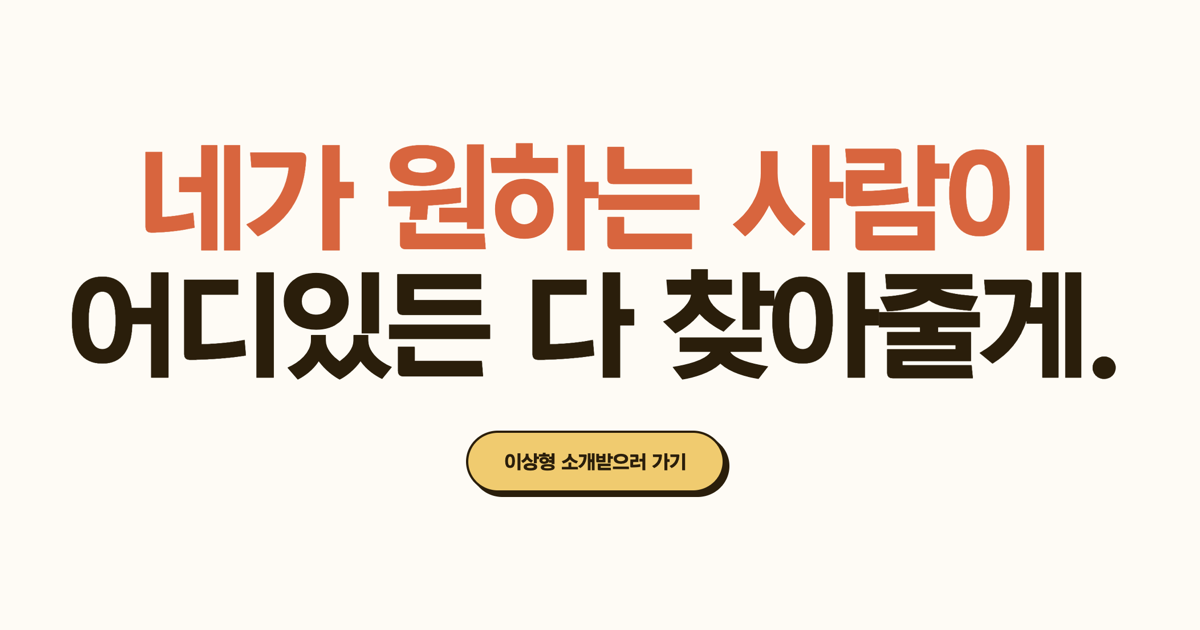
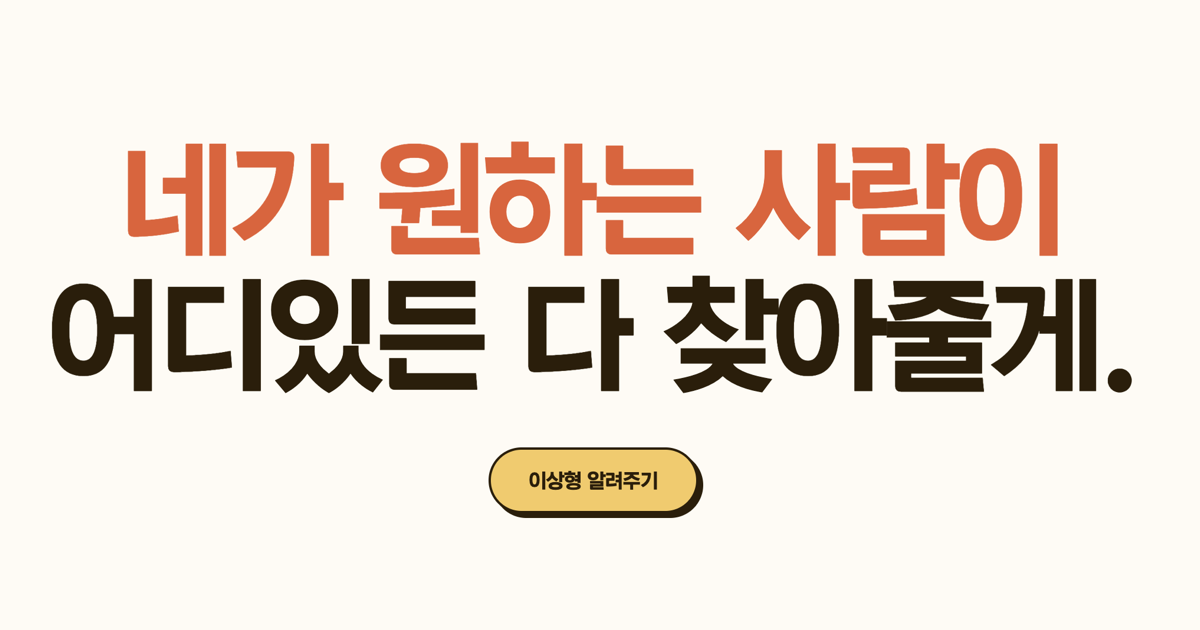
fix: CTA '이상형 알려주기'로 변경 + OG 이미지 업데이트

Changed region(s): [[0.0308, 0.2111, 0.9558, 0.6333], [0.37, 0.6635, 0.6167, 0.8444]]

diff --git a/app/page.tsx b/app/page.tsx
@@ -117,7 +117,7 @@ function PlacesScrollSection() {
           <br className="sm:hidden" />
           <span style={{ color: C.ink }}> 다 찾아줄게.</span>
         </h2>
-        <CtaButton className="mt-6 sm:mt-10">이상형 소개받으러 가기</CtaButton>
+        <CtaButton className="mt-6 sm:mt-10">이상형 알려주기</CtaButton>
       </div>
 
       {/* Cards */}
@@ -161,7 +161,7 @@ function PlacesScrollSection() {
           <br />
           <span style={{ color: C.accent }}>지구 어디든</span>
         </h2>
-        <CtaButton className="mt-6 sm:mt-10">이상형 소개받으러 가기</CtaButton>
+        <CtaButton className="mt-6 sm:mt-10">이상형 알려주기</CtaButton>
       </div>
 
       {/* Earth image */}
